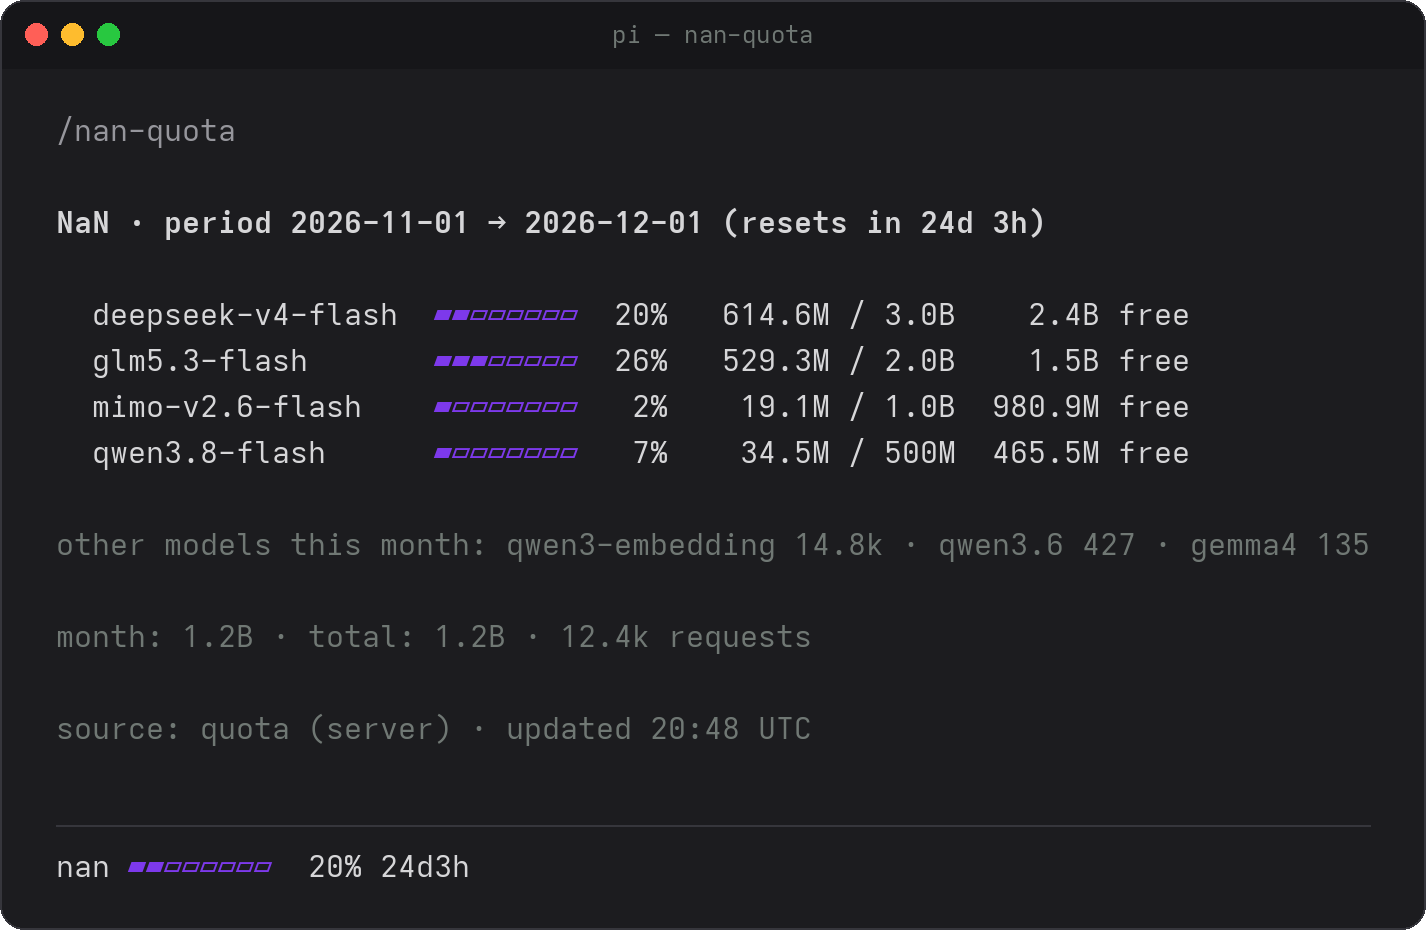
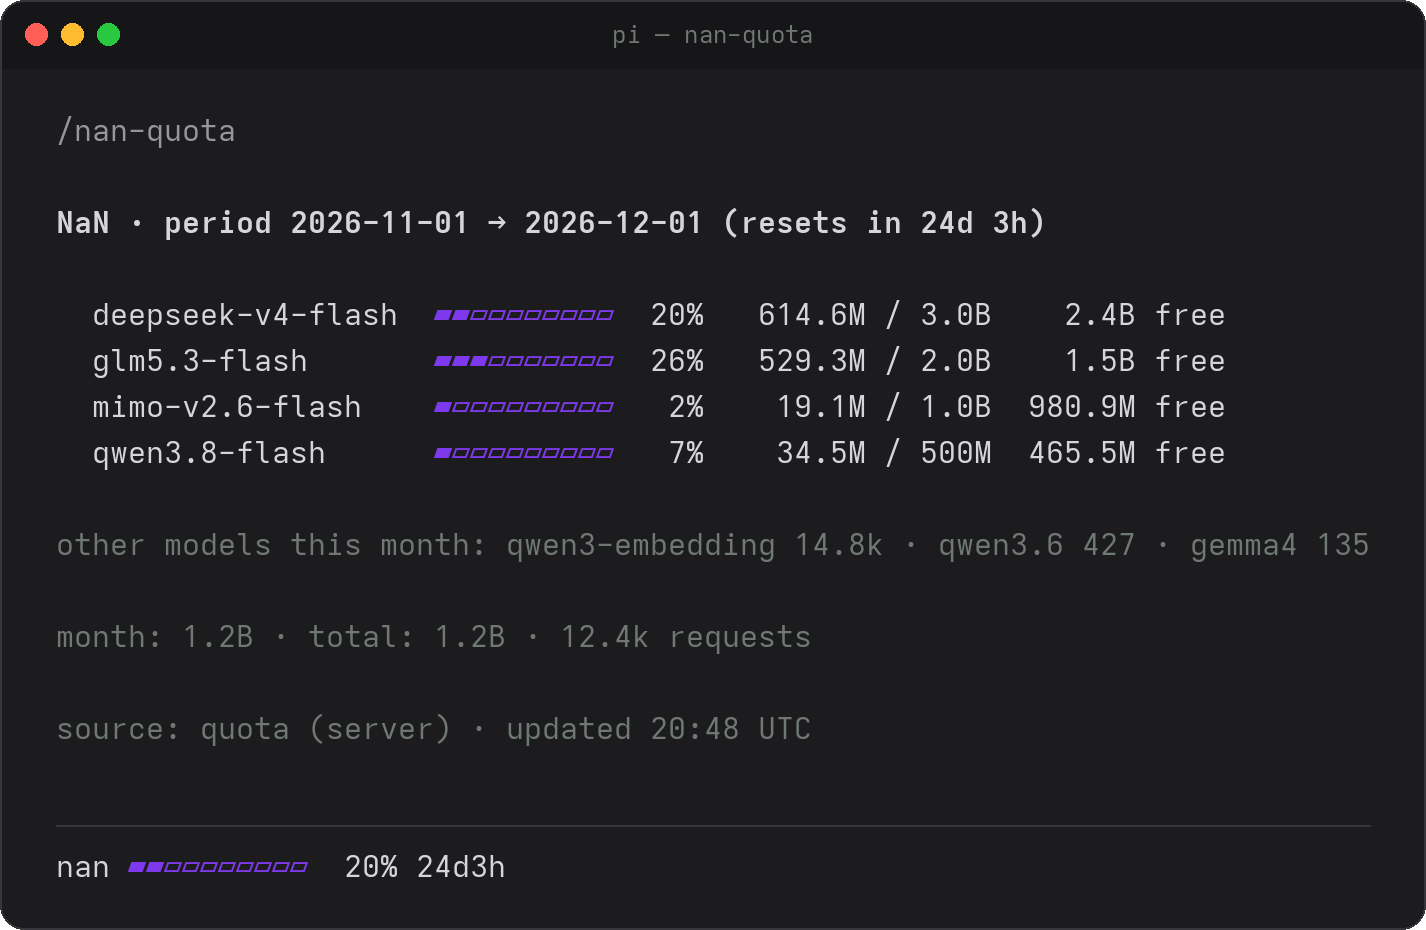
Draw the bar from the printed percentage on a uniform ten-pill scale
The bar rounded the raw ratio up while the number next to it rounded to the
nearest, so a raw 50.04 % printed as "50%" drew five pills of eight. The bar
is now computed from the printed percentage, so the two cannot disagree.

Eight pills cannot split 1-99 % into equal steps, which made some pills light
sooner than others. The bar now has ten: empty only at 0 %, full only at the
cap, and each of the nine steps in between covers exactly eleven points
(1-11 %, ..., 45-55 %, ..., 89-99 %). It climbs one pill at a time and is
exactly half around 50 %. A test walks all 101 percentages.

Changed region(s): [[0.4011, 0.3118, 0.864, 0.4989], [0.1851, 0.9043, 0.3394, 0.9667]]

diff --git a/src/render/bar.ts b/src/render/bar.ts
@@ -1,21 +1,36 @@
 // SPDX-License-Identifier: GPL-3.0-or-later
 /**
- * The footer bar: eight pills in a row, all of them in one violet.
+ * The footer bar: ten pills in a row, all of them in one violet.
  *
- *     ▰▰▱▱▱▱▱▱      21 %
- *     ▰▰▰▰▰▰▱▱      71 %
- *     ▰▰▰▰▰▰▰▰     100 %
- *     ▱▱▱▱▱▱▱▱       0 %
+ *     ▱▱▱▱▱▱▱▱▱▱       0 %
+ *     ▰▱▱▱▱▱▱▱▱▱    1–11 %
+ *     ▰▰▱▱▱▱▱▱▱▱   12–22 %
+ *     ▰▰▰▱▱▱▱▱▱▱   23–33 %
+ *     ▰▰▰▰▱▱▱▱▱▱   34–44 %
+ *     ▰▰▰▰▰▱▱▱▱▱   45–55 %
+ *     ▰▰▰▰▰▰▱▱▱▱   56–66 %
+ *     ▰▰▰▰▰▰▰▱▱▱   67–77 %
+ *     ▰▰▰▰▰▰▰▰▱▱   78–88 %
+ *     ▰▰▰▰▰▰▰▰▰▱   89–99 %
+ *     ▰▰▰▰▰▰▰▰▰▰     100 %
+ *
+ * The scale is uniform. An empty bar means nothing used and a full bar means
+ * the cap is reached, so the 99 values in between (1–99 %) are shared evenly
+ * by the nine intermediate states: exactly eleven points each, with the half
+ * bar centred on 50 %. Every step is one pill — the bar never skips one — and
+ * the first unit of usage always lights the first pill.
+ *
+ * It is driven by the *printed* percentage, not the raw ratio, so the bar and
+ * the number next to it can never disagree (a raw 50.04 % printed as `50%`
+ * once drew five pills of eight).
  *
  * No gap between the used and the unused part: a blank cell there reads as a
- * pill that is missing, right where the usage currently is. The cell that is in
- * progress counts as used (`ceil`), so the usage always ends on a solid pill.
+ * pill that is missing, right where the usage currently is.
  *
- * One colour, two shapes: the cells that have been used are solid and the rest
- * are hollow, and both are the same brand violet. A darker shade for the empty
- * half is *not* an option — on a dark terminal it reads as black, so half of the
- * bar looks like it disappeared. Colour carries the branding; the shape carries
- * the progress.
+ * One colour, two shapes: used pills are solid and the rest are hollow, both in
+ * the same brand violet. A darker shade for the unused part is *not* an option —
+ * on a dark terminal it reads as black, so half of the bar looks like it
+ * disappeared. Colour carries the branding; the shape carries the progress.
  *
  * `▰` and `▱` (U+25B0, U+25B1) are East Asian Width `N` (neutral), so they are
  * one column wide even on terminals that render ambiguous-width characters
@@ -29,8 +44,8 @@
  * testable without a terminal.
  */
 
-/** Cells in the bar, gap excluded. */
-export const BAR_WIDTH = 8;
+/** Pills in the bar. Ten gives nine equal 11-point steps between 0 and 100. */
+export const BAR_WIDTH = 10;
 
 /** Default family: parallelograms, solid for used cells, hollow for the rest. */
 export const PILL_GLYPHS = { fill: "\u25b0", empty: "\u25b1" } as const;
@@ -50,37 +65,44 @@ export function glyphsFor(style: GlyphStyle): Glyphs {
   return style === "safe" ? SAFE_GLYPHS : PILL_GLYPHS;
 }
 
+/**
+ * Used pills for a printed percentage: 0 only at 0 %, all of them only at
+ * 100 %, and `ceil(percent × (width − 1) / 99)` in between, which splits
+ * 1–99 % into `width − 1` equal steps.
+ */
+export function pillsFor(percent: number, width: number = BAR_WIDTH): number {
+  const cells = Math.max(1, Math.trunc(width));
+  const value = Number.isFinite(percent) ? Math.round(percent) : 0;
+  if (value <= 0) return 0;
+  if (value >= 100) return cells;
+  return Math.min(cells - 1, Math.max(1, Math.ceil((value * (cells - 1)) / 99)));
+}
+
 export interface BarOptions {
-  /** Cells in the bar (default {@link BAR_WIDTH}). */
+  /** Pills in the bar (default {@link BAR_WIDTH}). */
   width?: number;
   /** Glyph pair; {@link PILL_GLYPHS} by default. */
   glyphs?: Glyphs;
-  /** Painter for the used cells; identity when omitted. */
+  /** Painter for the used pills; identity when omitted. */
   fill?: (text: string) => string;
-  /** Painter for the unused cells; identity when omitted. */
+  /** Painter for the unused pills; identity when omitted. */
   empty?: (text: string) => string;
-  /** Minimum used cells while `0 < ratio < 1` (`ceil` already gives 1). */
-  minimum?: number;
-  /** Maximum used cells while `0 < ratio < 1`; defaults to `width - 1`. */
-  maximum?: number;
 }
 
-/** Render the bar for `ratio` in `[0, 1]`; always `width` columns. */
-export function renderBar(ratio: number, options: BarOptions = {}): string {
-  const width = options.width ?? BAR_WIDTH;
+/**
+ * Render the bar for a printed percentage (`0`–`100`; rounded, clamped, and
+ * `NaN` counts as 0). Always `width` columns.
+ */
+export function renderBar(percent: number, options: BarOptions = {}): string {
+  const width = Math.max(1, Math.trunc(options.width ?? BAR_WIDTH));
   const glyphs = options.glyphs ?? PILL_GLYPHS;
   const fill = options.fill ?? identity;
   const empty = options.empty ?? identity;
 
-  const clamped = Number.isFinite(ratio) ? Math.min(1, Math.max(0, ratio)) : 0;
-  if (clamped <= 0) return empty(glyphs.empty.repeat(width));
-  if (clamped >= 1) return fill(glyphs.fill.repeat(width));
-
-  const floor = Math.min(width, Math.max(0, Math.trunc(options.minimum ?? 0)));
-  const ceiling = Math.min(width, Math.max(1, Math.trunc(options.maximum ?? width - 1)));
-  // The cell the usage is currently in is drawn solid: the bar ends on a pill.
-  const used = Math.min(ceiling, Math.max(1, floor, Math.ceil(clamped * width)));
-  return fill(glyphs.fill.repeat(used)) + empty(glyphs.empty.repeat(width - used));
+  const used = pillsFor(percent, width);
+  const usedPart = used > 0 ? fill(glyphs.fill.repeat(used)) : "";
+  const emptyPart = used < width ? empty(glyphs.empty.repeat(width - used)) : "";
+  return usedPart + emptyPart;
 }
 
 const identity = (text: string): string => text;

diff --git a/src/render/status.ts b/src/render/status.ts
@@ -8,9 +8,9 @@
  *
  * Shapes, widest first (the first that fits `MAX_SEGMENT_WIDTH` wins):
  *
- *   nan ▰▰▰▰▰▱▱▱  62% 4d3h · glm5.3-flash 91%
- *   nan ▰▰▰▰▰▱▱▱  62% 4d3h
- *   nan ▰▰▰▰▰▱▱▱  62%
+ *   nan ▰▰▰▰▰▰▱▱▱▱  62% 4d3h · glm5.3-flash 91%
+ *   nan ▰▰▰▰▰▰▱▱▱▱  62% 4d3h
+ *   nan ▰▰▰▰▰▰▱▱▱▱  62%
  *   nan 62%
  */
 
@@ -95,9 +95,8 @@ export function renderStatus(snapshot: Snapshot | undefined, options: StatusRend
 
   const percent = formatPercent(quota.tokensUsed, quota.cap);
   const tone = { mode: options.mode ?? "none", theme, warnAt, criticalAt };
-  const bar = renderBar(quota.cap > 0 ? quota.tokensUsed / quota.cap : 0, {
-    // From 1 % on, one cell: an almost untouched bar must not look untouched.
-    minimum: percent >= 1 ? 1 : 0,
+  // The bar is drawn from the printed percentage, so the two always agree.
+  const bar = renderBar(percent, {
     glyphs: glyphsFor(options.glyphStyle ?? "pill"),
     fill: (text) => paintUsage(text, percent, tone),
     // Same violet as the used cells: a darker shade reads as black on a dark

diff --git a/src/command.ts b/src/command.ts
@@ -124,7 +124,8 @@ function buildRow(model: ModelQuota, estimated: boolean): Row {
   const percent = formatPercent(model.tokensUsed, model.cap);
   return {
     name: model.model,
-    bar: renderBar(model.tokensUsed / model.cap),
+    // From the printed percentage, so the row's bar and number always agree.
+    bar: renderBar(percent),
     percent: `${estimated ? "~" : ""}${percent}%`,
     used: formatTokens(model.tokensUsed),
     cap: formatTokens(model.cap),

diff --git a/src/api/quota.ts b/src/api/quota.ts
@@ -23,7 +23,7 @@ import { FetchError, type ModelQuota } from "../types.ts";
 export const QUOTA_URL = "https://cloud-api.nan.builders/api/usage/quota";
 
 /** Keep in sync with package.json `version` (a test enforces it). */
-export const VERSION = "0.1.0";
+export const VERSION = "0.1.1";
 
 /** User-Agent header value; the API is friendlier when it can identify callers. */
 export const USER_AGENT = `pi-nan-quota/${VERSION}`;

diff --git a/src/index.ts b/src/index.ts
@@ -12,7 +12,7 @@
  *
  * keeps the last good answer in memory, and paints one status line:
  *
- *     nan ▰▰▰▰▰▱▱▱  62% 4d3h · glm5.3-flash 91%
+ *     nan ▰▰▰▰▰▰▱▱▱▱  62% 4d3h · glm5.3-flash 91%
  *
  * `/nan-quota` prints the per-model table in the transcript as a custom entry,
  * which pi keeps out of the model's context.

diff --git a/README.md b/README.md
@@ -6,7 +6,7 @@ with the per-model breakdown.
 
 <p align="center">
   <img src="https://raw.githubusercontent.com/AdrianRodriguezM/pi-nan-quota/main/docs/preview.png"
-       alt="The /nan-quota table with violet usage bars per model, and the footer segment: nan, an eight-pill bar, 20%, 24d3h"
+       alt="The /nan-quota table with violet usage bars per model, and the footer segment: nan, a ten-pill bar, 20%, 24d3h"
        width="713">
 </p>
 
@@ -49,21 +49,36 @@ Drawn only while the active model talks to NaN (or always, with `alwaysShow`):
 
 | Situation | Segment |
 |---|---|
-| Monthly cap, 20 % used, resets in 24 days | `nan ▰▰▱▱▱▱▱▱  20% 24d3h` |
-| Another model is about to run out | `nan ▰▰▰▰▰▰▱▱  71% 24d3h · glm5.3-flash 88%` |
-| Cap reached, a purchased extra pool is backing it | `nan ▰▰▰▰▰▰▰▰ 100% +125M 24d3h` |
+| Monthly cap, 20 % used, resets in 24 days | `nan ▰▰▱▱▱▱▱▱▱▱  20% 24d3h` |
+| Another model is about to run out | `nan ▰▰▰▰▰▰▰▱▱▱  71% 24d3h · glm5.3-flash 88%` |
+| Cap reached, a purchased extra pool is backing it | `nan ▰▰▰▰▰▰▰▰▰▰ 100% +125M 24d3h` |
 | A model NaN does not cap (`qwen3.6`, `gemma4`, new models) | `nan no cap · 427 this month` |
 | A model your plan does not include (`glm5.3` on a member key) | `nan glm5.3 not in your plan` |
 | A model NaN no longer serves (`glm5.2`) | `nan glm5.2 not available on this key` |
 | First read still in flight, or no key | `nan ···` |
-| Last refresh failed; the bar is 40 minutes old | `nan ▰▰▱▱▱▱▱▱  20% 24d3h ·40m` |
+| Last refresh failed; the bar is 40 minutes old | `nan ▰▰▱▱▱▱▱▱▱▱  20% 24d3h ·40m` |
 | The active model is not a NaN one | *(nothing)* |
 
-The bar is eight pills, `▰` for the used part and `▱` for the rest, all in NaN's
-violet `#7D39EB`, with no gap between the two parts. The pill the usage is
-currently in counts as used, so any usage at all lights the first pill and the
-bar always ends on a solid one. The bar is always eight columns and the
-percentage four, so nothing in the footer moves as the numbers change.
+The bar is ten pills, `▰` for the used part and `▱` for the rest, all in NaN's
+violet `#7D39EB`, with no gap between the two parts. The scale is uniform: empty
+means nothing used, full means the cap is reached, and the nine steps in between
+share 1–99 % evenly, eleven points each:
+
+| Used | Bar | | Used | Bar |
+|---|---|---|---|---|
+| 0 % | `▱▱▱▱▱▱▱▱▱▱` | | 56–66 % | `▰▰▰▰▰▰▱▱▱▱` |
+| 1–11 % | `▰▱▱▱▱▱▱▱▱▱` | | 67–77 % | `▰▰▰▰▰▰▰▱▱▱` |
+| 12–22 % | `▰▰▱▱▱▱▱▱▱▱` | | 78–88 % | `▰▰▰▰▰▰▰▰▱▱` |
+| 23–33 % | `▰▰▰▱▱▱▱▱▱▱` | | 89–99 % | `▰▰▰▰▰▰▰▰▰▱` |
+| 34–44 % | `▰▰▰▰▱▱▱▱▱▱` | | 100 % | `▰▰▰▰▰▰▰▰▰▰` |
+| 45–55 % | `▰▰▰▰▰▱▱▱▱▱` | | | |
+
+So the bar climbs one pill at a time, never skips one, lights the first pill at
+the first unit of usage, is exactly half around 50 %, and is only full at the
+cap. It is drawn from the printed percentage, so the two always agree. The scale
+is the same for every model: it is a share of that model's own cap. The bar is
+always ten columns and the percentage four, so nothing in the footer moves as the
+numbers change.
 
 From `warnAt` (80 %) the used part and the alerts switch to your theme's warning
 colour, from `criticalAt` (95 %) to its error colour.
@@ -73,10 +88,10 @@ colour, from `criticalAt` (95 %) to its error colour.
 ```
 NaN · period 2026-11-01 → 2026-12-01 (resets in 24d 3h)
 
-  deepseek-v4-flash  ▰▰▱▱▱▱▱▱  20%   614.6M / 3.0B    2.4B free
-  glm5.3-flash       ▰▰▰▱▱▱▱▱  26%   529.3M / 2.0B    1.5B free
-  mimo-v2.6-flash    ▰▱▱▱▱▱▱▱   2%    19.1M / 1.0B  980.9M free
-  qwen3.8-flash      ▰▱▱▱▱▱▱▱   7%    34.5M / 500M  465.5M free
+  deepseek-v4-flash  ▰▰▱▱▱▱▱▱▱▱  20%   614.6M / 3.0B    2.4B free
+  glm5.3-flash       ▰▰▰▱▱▱▱▱▱▱  26%   529.3M / 2.0B    1.5B free
+  mimo-v2.6-flash    ▰▱▱▱▱▱▱▱▱▱   2%    19.1M / 1.0B  980.9M free
+  qwen3.8-flash      ▰▱▱▱▱▱▱▱▱▱   7%    34.5M / 500M  465.5M free
 
 other models this month: qwen3-embedding 14.8k · qwen3.6 427 · gemma4 135
 

diff --git a/DESIGN.md b/DESIGN.md
@@ -52,15 +52,20 @@ printed.
   that render `getExtensionStatuses()`; a second footer would fight them.
 - **The bar** — settled with the owner after several rejected attempts; do not
   change it without asking:
-  - eight `▰` / `▱` pills, the shape that was chosen over blocks;
+  - ten `▰` / `▱` pills, the shape that was chosen over blocks;
   - **one colour for both halves**, the brand violet `#7D39EB` (256-colour
     `99`). A darker violet for the unused half reads as black on dark terminals
     and was reported as "the bar disappears";
   - **no gap** between used and unused pills: a blank cell there reads as a
     missing pill;
-  - used pills = `ceil(ratio × 8)`, at most 7 below 100 %: the pill the usage is
-    in is solid, so the bar always ends on a solid violet pill;
-  - fixed width (8 columns, percentage padded to 4) so the footer never jumps.
+  - **a uniform scale, driven by the printed percentage**: 0 pills only at 0 %,
+    10 only at 100 %, and `ceil(percent × 9 / 99)` in between, so each of the
+    nine intermediate states covers exactly eleven points (1–11, 12–22, …,
+    89–99) and 45–55 % is the half bar. Eight pills with `ceil` on the raw ratio
+    shipped in 0.1.0 and drew five of eight next to a printed `50%`; eight pills
+    cannot split 1–99 % evenly at all (14.1 points each), which is why the bar
+    moved to ten. A test walks all 101 percentages;
+  - fixed width (10 columns, percentage padded to 4) so the footer never jumps.
 - Theme `warning` / `error` take over the used pills from `warnAt` / `criticalAt`:
   a quota about to run out should look like a warning, not like branding.
 - `▰`/`▱` are East Asian Width neutral (one column everywhere). Fonts without them

diff --git a/CHANGELOG.md b/CHANGELOG.md
@@ -6,13 +6,30 @@ All notable changes to this project are documented here. The format follows
 quota endpoint it reads is undocumented, and a minor release may change
 behaviour to follow NaN.
 
+## [0.1.1] - 2026-11-08
+
+### Fixed
+
+- The bar could disagree with the percentage printed next to it: a raw 50.04 %
+  printed as `50%` drew five pills of eight, because the bar rounded the raw
+  ratio up while the number rounded to the nearest. The bar is now drawn from
+  the printed percentage.
+
+### Changed
+
+- The bar has ten pills on a uniform scale. Empty only at 0 %, full only at
+  100 %, and each of the nine steps in between covers exactly eleven points
+  (1–11 %, 12–22 %, …, 89–99 %), so it climbs one pill at a time and 45–55 % is
+  exactly half. Eight pills could not split the range evenly. The segment is
+  two columns wider.
+
 ## [0.1.0] - 2026-11-07
 
 First release.
 
 ### Added
 
-- Footer segment for the active NaN model: an eight-pill bar in NaN's violet, the
+- Footer segment for the active NaN model: a pill bar in NaN's violet, the
   percentage of the monthly cap, the time to reset, and alerts for other models
   over `warnAt`.
 - `/nan-quota` command with the per-model table, extra pools, the rolling window
@@ -34,4 +51,5 @@ First release.
 - Compatibility: pi ≥ 1.3.0, checked in CI by loading the package through a real
   pi at the oldest supported and the latest version.
 
+[0.1.1]: https://github.com/AdrianRodriguezM/pi-nan-quota/compare/v0.1.0...v0.1.1
 [0.1.0]: https://github.com/AdrianRodriguezM/pi-nan-quota/releases/tag/v0.1.0
